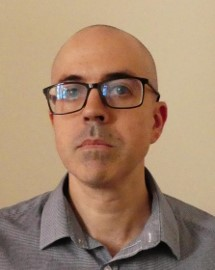
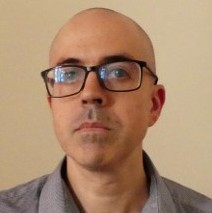
Update images (2)

diff --git a/index.html b/index.html
@@ -21,17 +21,6 @@ body, html {
 
 .menu {
   display: none;
-
-.mask {
-  display: inline-block;
-  width: 100px;
-  height: 100px;
-  border-radius: 50%;
-  overflow: hidden;
-}
-
-img {max-width: 100%;}
-
 }
 </style>
 </head>
@@ -82,10 +71,10 @@ img {max-width: 100%;}
 	  border-radius: 50%;
 	}
 	</style>
-	<div class="mask"><img src="/images/szott.png" alt="Szymon Szott" /></div>
-	<div class="mask"><img src="/images/kosek-szott.jpg" alt="Katarzyna Kosek-Szott" /></div>
-	<div class="mask"><img src="/images/bellalta.jpg" alt="Boris Bellalta" /></div>
-	<div class="mask"><img src="/images/wilhelmi.jpg" alt="Francesc Wilhelmi" /></div>
+	<img src="/images/szott.png" alt="Szymon Szott" />
+	<img src="/images/kosek-szott.jpg" alt="Katarzyna Kosek-Szott">
+	<img src="/images/bellalta.jpg" alt="Boris Bellalta">
+	<img src="/images/wilhelmi.jpg" alt="Francesc Wilhelmi">
   </div>
 </div>
 
